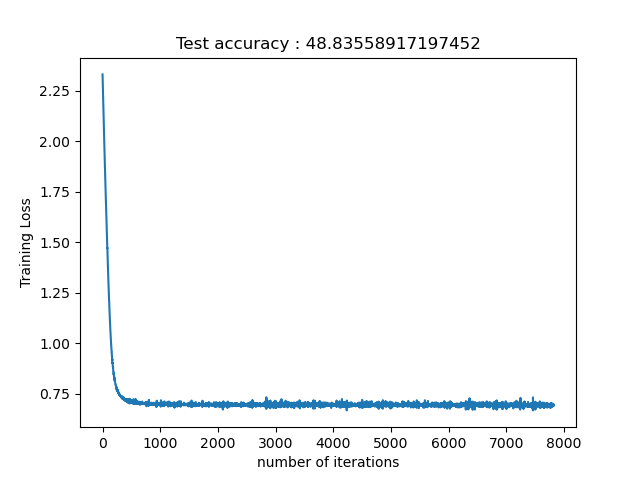
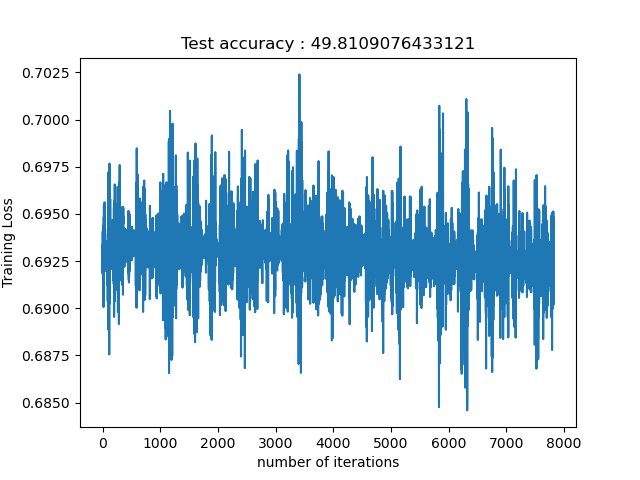
correction spherical data generation

diff --git a/Neural_network/train_classifier.py b/Neural_network/train_classifier.py
@@ -93,13 +93,13 @@ if data_choice == "CIFAR10":
     train_loader = torch.utils.data.DataLoader(train_set, batch_size=batch_size_train, shuffle=False)#sampler = torch.utils.data.RandomSampler(train_set, replacement=True), batch_size=batch_size)
 elif data_choice == "SPHERE":
     # Sphere data
-    checkpoint = torch.load('../dataset/sphere/dataset_sphere.pth')
+    checkpoint_train = torch.load('../dataset/sphere/train_dataset_sphere.pth')
+    checkpoint_test = torch.load('../dataset/sphere/test_dataset_sphere.pth')
     # Recreate the tensordataset
-    loaded_dataset = torch.utils.data.TensorDataset(checkpoint['data'], checkpoint['labels'])
-    train_size = int(5/6 * len(loaded_dataset))
-    test_size = len(loaded_dataset) - train_size
+    train_dataset = torch.utils.data.TensorDataset(checkpoint_train['data'], checkpoint_train['labels'])
+    test_dataset = torch.utils.data.TensorDataset(checkpoint_test['data'], checkpoint_test['labels'])
     # Split dataset between training set and test set
-    train_dataset, test_dataset = torch.utils.data.random_split(loaded_dataset, [train_size, test_size])
+
     train_loader = torch.utils.data.DataLoader(train_dataset, batch_size=batch_size_train, shuffle=False)
     test_loader = torch.utils.data.DataLoader(test_dataset, batch_size=batch_size_test, shuffle=False)
 

diff --git a/Neural_network/racoga_computation.py b/Neural_network/racoga_computation.py
@@ -53,6 +53,22 @@ flatten =  t.Lambda(lambda x:x.view(-1))
 transform_list = t.Compose([to_tensor, normalize, flatten])
 train_set = torchvision.datasets.CIFAR10(root='../dataset', train=True, transform=transform_list, download=True)
 
+data_choice = hparams.data
+if data_choice == "CIFAR10":
+    train_set = torchvision.datasets.CIFAR10(root='../dataset', train=True, transform=transform_list, download=True)
+elif data_choice == "SPHERE":
+    # Sphere data
+    checkpoint = torch.load('../dataset/sphere/dataset_sphere.pth')
+    # Recreate the tensordataset
+    loaded_dataset = torch.utils.data.TensorDataset(checkpoint['data'], checkpoint['labels'])
+    train_size = int(5/6 * len(loaded_dataset))
+    test_size = len(loaded_dataset) - train_size
+    # Split dataset between training set and test set
+    train_dataset, test_dataset = torch.utils.data.random_split(loaded_dataset, [train_size, test_size])
+    train_loader = torch.utils.data.DataLoader(train_dataset, batch_size=batch_size_train, shuffle=False)
+    test_loader = torch.utils.data.DataLoader(test_dataset, batch_size=batch_size_test, shuffle=False)
+
+
 # Load results
 path_results = "results/"
 suffix = "_lr_" + str(lr) + "_momentum_" + str(momentum) + '_seed_' + str(current_seed)

diff --git a/Neural_network/data_sphere_generation.py b/Neural_network/data_sphere_generation.py
@@ -1,6 +1,7 @@
 import torch
 from torch.utils.data import DataLoader, TensorDataset
 
+torch.manual_seed(42)
 def points_sur_sphere_torch(d, n_points):
     """
     Generate points uniformly distributed on the sphere.
@@ -28,4 +29,12 @@ labels[torch.where((data[:,0]<0))]  =1
 
 # Save dataset
 dataset = TensorDataset(data, labels)
-torch.save({'data': data, 'labels': labels}, '/beegfs/jhermant/Momentum_Stochastic_GD/dataset/sphere/dataset_sphere.pth')
+train_size = 50000
+test_size =  10000
+    # Split dataset between training set and test set
+torch.manual_seed(42)
+train_dataset, test_dataset = torch.utils.data.random_split(data, [train_size, test_size])
+torch.manual_seed(42)
+train_labels, test_labels = torch.utils.data.random_split(labels, [train_size, test_size])
+torch.save({'data': train_dataset, 'labels': train_labels}, '/beegfs/jhermant/Momentum_Stochastic_GD/dataset/sphere/train_dataset_sphere.pth')
+torch.save({'data': test_dataset, 'labels': test_labels}, '/beegfs/jhermant/Momentum_Stochastic_GD/dataset/sphere/test_dataset_sphere.pth')

diff --git a/Neural_network/models_architecture.py b/Neural_network/models_architecture.py
@@ -3,11 +3,11 @@ import torchvision
 import torch.nn as nn
 import torchvision.transforms as t
 
-def create_mlp():
-    return nn.Sequential(nn.Linear(3 * 32 * 32, 128), nn.ReLU(), nn.Linear(128, 64),  nn.ReLU(), nn.Linear(64, 10))
-
 # def create_mlp():
-#     return nn.Sequential(nn.Linear(3 * 32 * 32,128), nn.ReLU(), nn.Linear(128, 2))
+#     return nn.Sequential(nn.Linear(3 * 32 * 32, 128), nn.ReLU(), nn.Linear(128, 64),  nn.ReLU(), nn.Linear(64, 10))
+
+def create_mlp():
+    return nn.Sequential(nn.Linear(3 * 32 * 32, 128), nn.ReLU(), nn.Linear(128, 64),  nn.ReLU(), nn.Linear(64, 2))
 
 def create_cnn():
     net = nn.Sequential(
